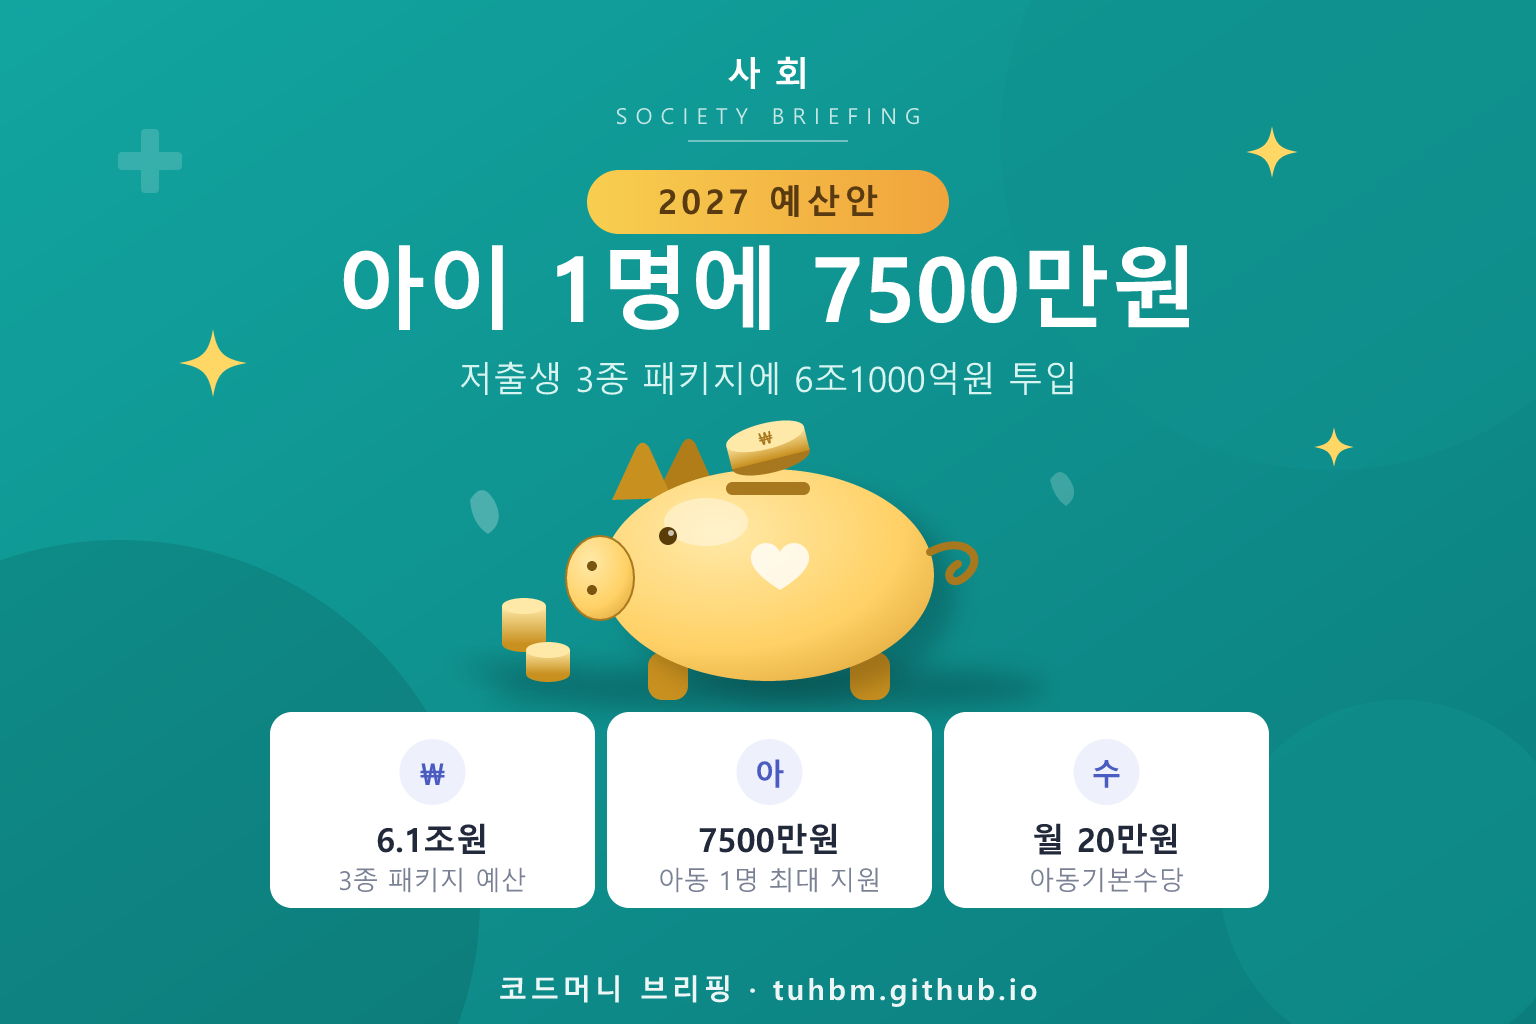
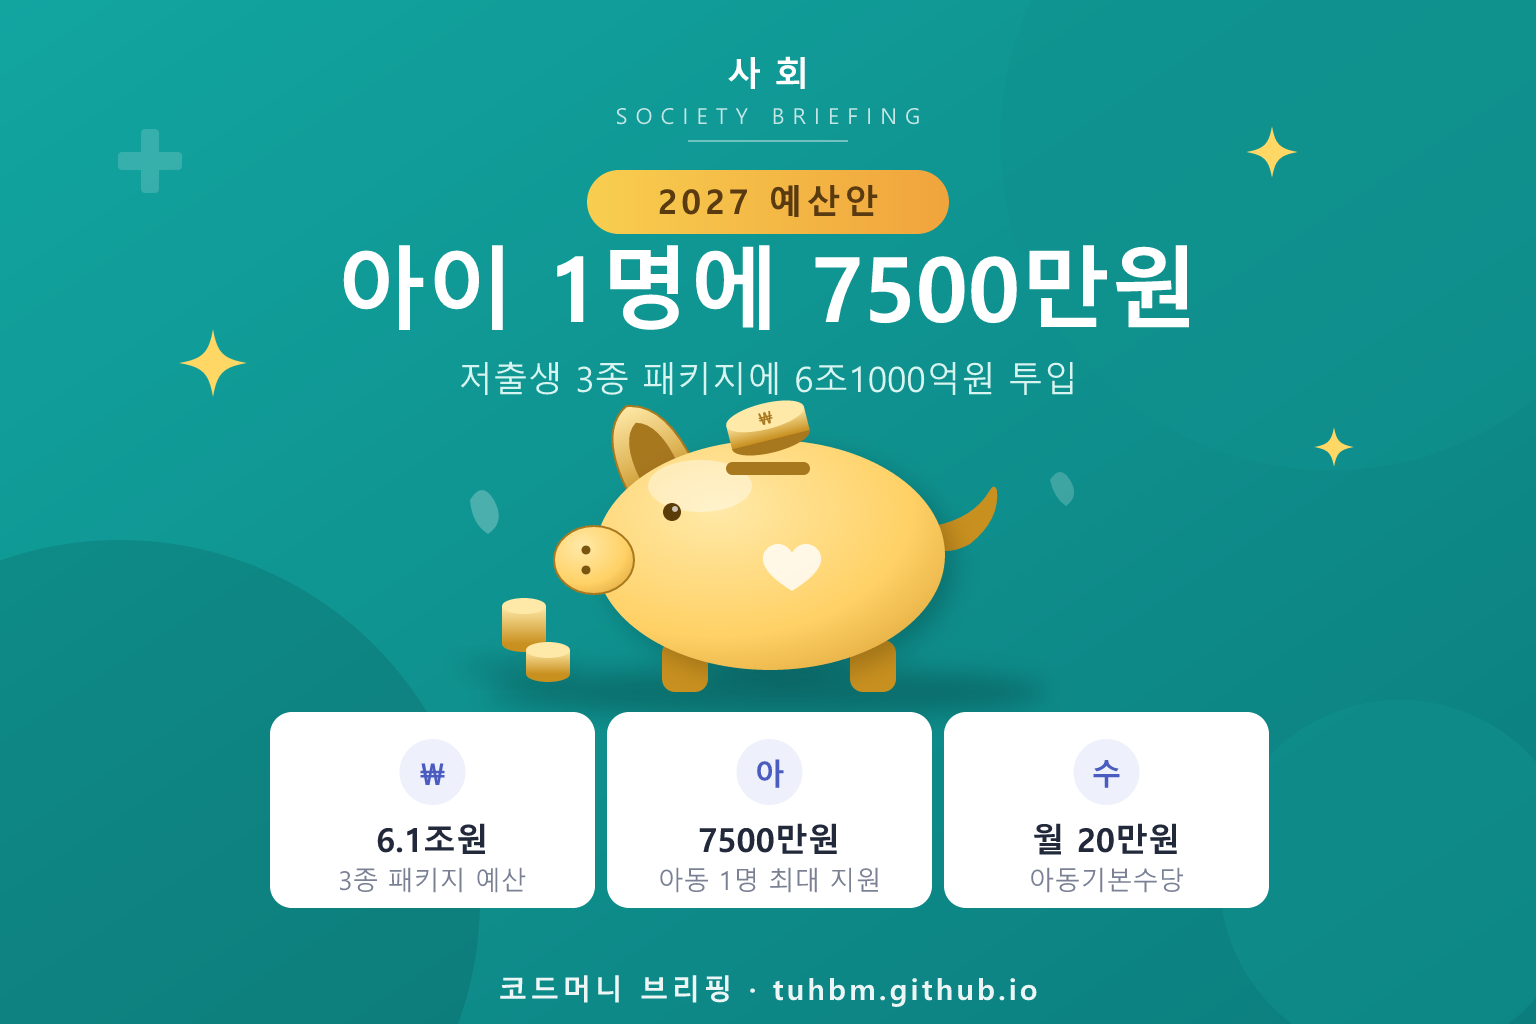
fix: birthBudget2027 돼지저금통 레퍼런스 형태로 전면 교체 + 이미지 수정 시 배포 전 확인 규칙 추가

Changed region(s): [[0.3438, 0.375, 0.6562, 0.6875]]

diff --git a/CLAUDE-WORKLOG.md b/CLAUDE-WORKLOG.md
@@ -10,7 +10,7 @@
   - git pull 선행(변경 없음) 후 오늘의 이슈 10편 작성·배포: augustCpiRebound(경제·8월 물가 3.1%), isaReformScrapped(경제·ISA 개편 백지화), financeUnionStrike(경제·금융노조 총파업 예고), birthBudget2027(사회·저출생 예산 6.1조), employInsuranceReform(사회·고용보험료율 인상), hormuzTankerAttack(국제·한국 유조선 피격), germanyRussiaDrone(국제·독일-러 드론 공작 사태), kakaoMembership(IT과학·카카오 통합 멤버십), biff2026Lineup(생활문화·부산국제영화제 라인업), leeSedolShow(연예·백수 이세돌 확정).
   - 이미지 10장 v5 기준으로 제작, 전량 육안 검수. 보완 2장(돼지저금통 귀·다리 노출, 유조선 선체 외곽선). 빌드 검증에서 볼드 아티팩트 1건(따옴표 볼드) 수정 후 0건 확인.
   - 전날(9/1) 사용자 요청으로 timCookFarewell 이미지를 배턴터치→키노트 무대 콘셉트로 교체 배포한 건 반영됨.
-  - 사용자 피드백으로 birthBudget2027 돼지저금통 재수정: 코(주둥이)가 오른쪽·꼬리가 왼쪽에 뒤바뀌어 있던 것을 왼쪽 보는 방향으로 통일(코 왼쪽 앞 + 눈 + 꼬리 오른쪽 뒤) 후 재배포. 추가 피드백으로 몸통 위쪽 귀 2개가 다리처럼 보여 제거(바닥 다리 2개만 유지).
+  - 사용자 피드백으로 birthBudget2027 돼지저금통 재수정: 코(주둥이)가 오른쪽·꼬리가 왼쪽에 뒤바뀌어 있던 것을 왼쪽 보는 방향으로 통일(코 왼쪽 앞 + 눈 + 꼬리 오른쪽 뒤) 후 재배포. 이후 연쇄 피드백으로 돼지를 레퍼런스 형태로 전면 교체: 둥근 일체형 몸통 + 잎사귀 귀 1개(그라데이션+안쪽 귀 디테일, 눈 위 -24° 기울임) + 왼쪽 뭉툭 주둥이 + 오른쪽 뾰족 꼬리 + 다리 2개. **새 규칙(CLAUDE.md 5번)**: 이미지 수정 재작업은 배포 전 사용자에게 이미지 확인받고 배포.
 - 다음에 할 일: 없음.
 
 ## 2026-09-01 (Windows PC)

diff --git a/CLAUDE.md b/CLAUDE.md
@@ -11,6 +11,7 @@
 2. **이미지 퀄리티는 85~90점 수준(v5 기준)을 유지**한다 — 아래 "히어로(illust) 품질 기준 — v5" 참조. 플랫 단색 수준(60점)으로 회귀 금지.
 3. **규칙이 추가되면 이 CLAUDE.md에 추가하고 git에 함께 푸시**한다 — 다른 PC에서도 같은 조건으로 작업할 수 있게 하기 위함.
 4. **변경사항이 생기면 마찬가지로 CLAUDE.md(및 CLAUDE-WORKLOG.md)에 기록**하고 푸시한다.
+5. **이미지 수정(사용자 피드백 반영 재작업) 시에는 재생성한 이미지를 배포 전에 사용자에게 보여주고 확인받은 뒤 배포**한다 (2026-09-02). 일일 파이프라인의 신규 글·이미지 일괄 배포는 기존대로 자동 진행.
 
 ## 공통: 저장소 구조
 
